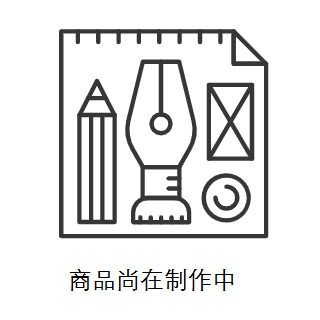
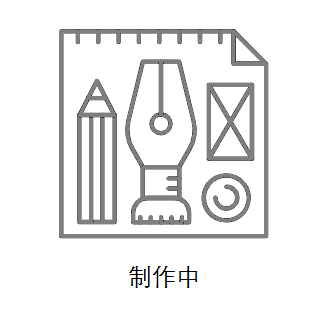
error handle: empty product manifest

Changed region(s): [[0.1875, 0.0938, 0.8438, 0.75], [0.2188, 0.8125, 0.75, 0.9062]]

diff --git a/src/views/product/product-detail.vue b/src/views/product/product-detail.vue
@@ -397,7 +397,7 @@ export default defineComponent({
             }
             creatingScheme.value = true;
 
-            const res = await apiProvider.createNewScheme(schemeName, svcid, eid, cid, pid, sid);
+            const res = await apiProvider.createNewScheme(schemeName || "-", svcid, eid, cid, pid, sid);
             if (res.ok && res.data) {
                 store.commit("SET-DIRTY-SCHEME", { cid: cid, dirty: true });
 
@@ -452,8 +452,12 @@ export default defineComponent({
         }
 
         async function captureSchemeScreenshot() {
-            const base64 = await refBabylon.value!.screenshotApi();
-            await util.uploadSchemeScreenshot(product.value!.id, base64);
+            try {
+                const base64 = await refBabylon.value!.screenshotApi();
+                await util.uploadSchemeScreenshot(product.value!.id, base64);
+            } catch (error) {
+                //
+            }
         }
 
         async function requestProductDetail() {

diff --git a/src/lib/scheme.util.ts b/src/lib/scheme.util.ts
@@ -1,5 +1,5 @@
 /* eslint @typescript-eslint/no-var-requires: "off" */
-import { Scheme } from "@/lib/scheme";
+import { Config, Manifest, Scheme } from "@/lib/scheme";
 import request from "@/utils/request";
 import apiProvider from "@/api/provider";
 import { ObjectMapper } from "jackson-js";
@@ -33,6 +33,9 @@ const objectMapper = new ObjectMapper(undefined, {
     },
 });
 export function importSchemeJson(url: string): Promise<Scheme> {
+    if (!url) {
+        return Promise.resolve(new Scheme(null as unknown as Config, new Manifest([], [], [])));
+    }
     return new Promise((resolve, reject) => {
         request({
             url: url + `?timestamp=${Date.now()}`, // add timestamp to disable browser cache

diff --git a/src/api/provider/rest.provider.ts b/src/api/provider/rest.provider.ts
@@ -427,7 +427,7 @@ export default class RestProvider extends LocalProvider {
                         ok: true,
                         status: res.status,
                         data: res.data.map((item: Scheme) => {
-                            item.cover = [item.pic || "https://dummyimage.com/200x300&text=TODO"];
+                            item.cover = [item.pic || require("@/assets/img/product-default.png")];
                             return item;
                         }),
                     });
